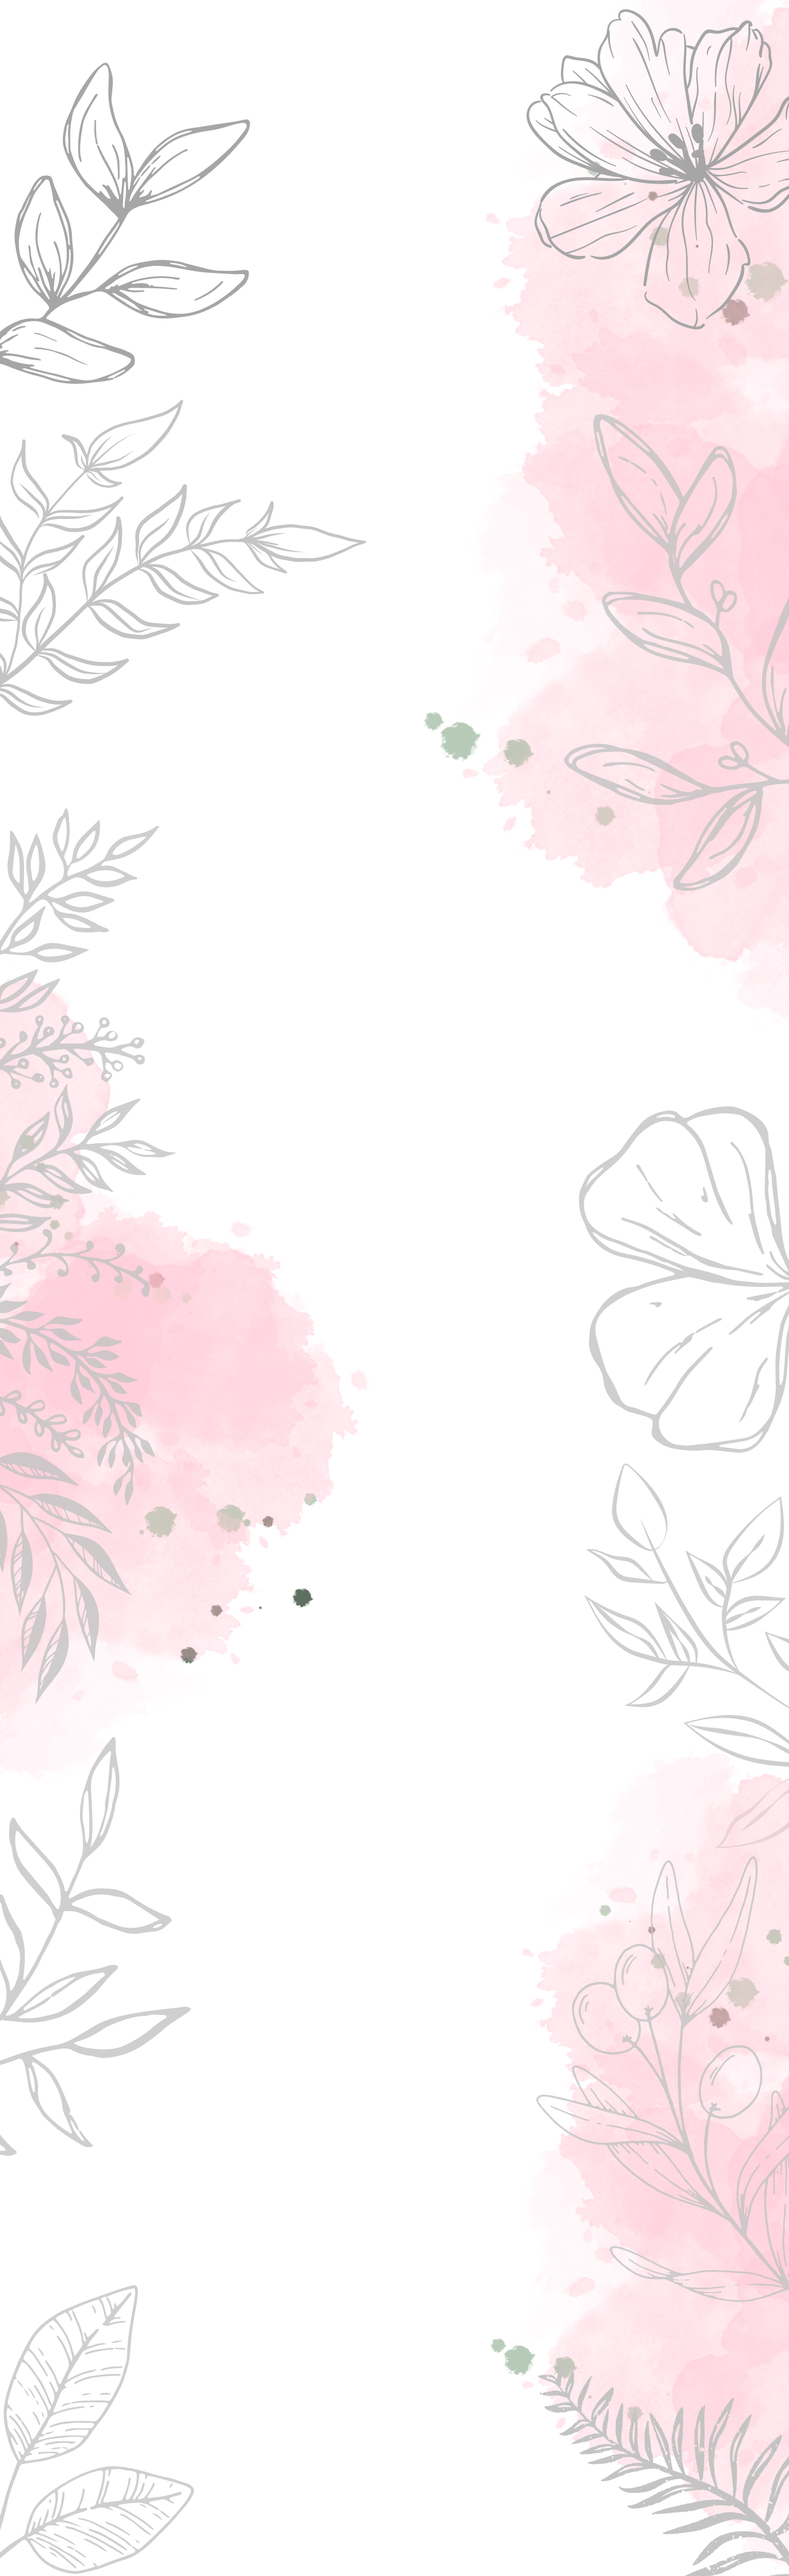
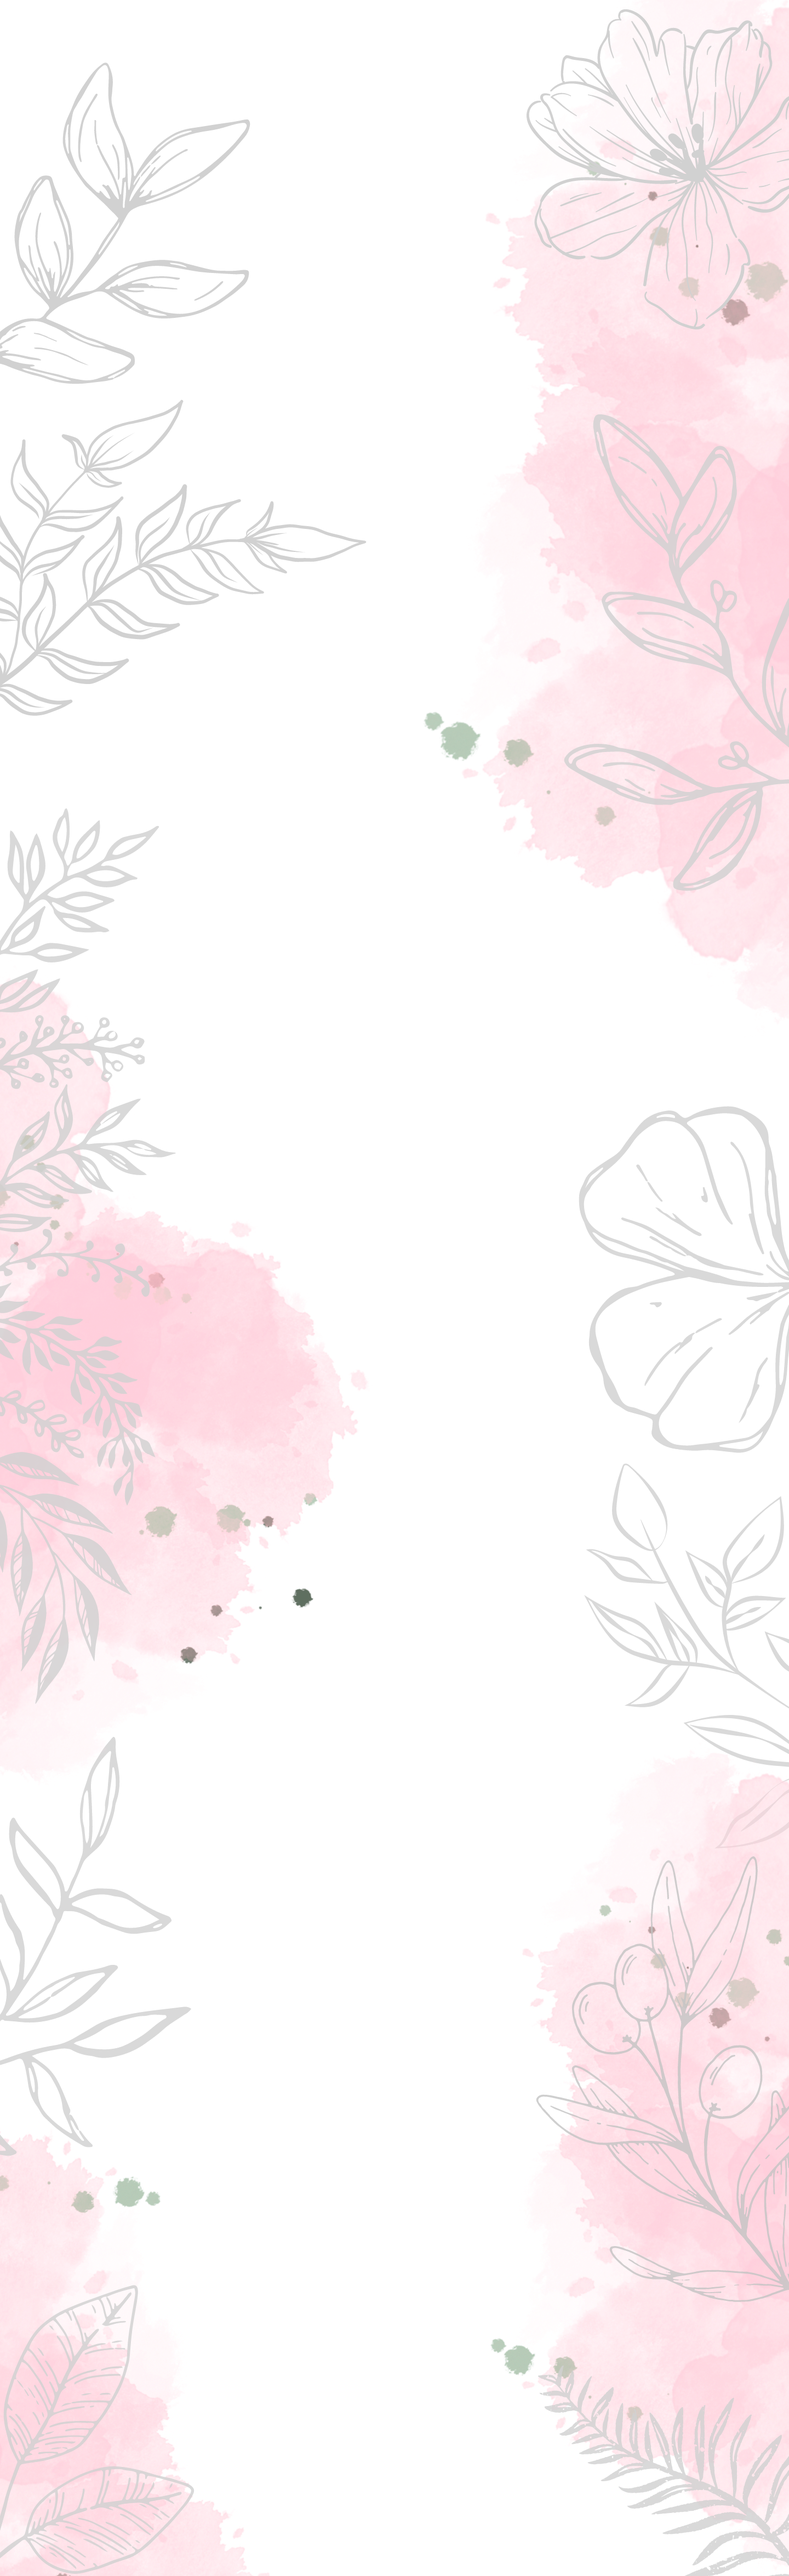
.

diff --git a/src/components/landing/banner_prin_gre_sto.tsx b/src/components/landing/banner_prin_gre_sto.tsx
@@ -1,24 +1,57 @@
 import { Link } from "react-router-dom";
 
 
-
-
+// const images = [
+//   "https://grema-store-frontend.vercel.app/images/backs9.jpg",
+//   "https://grema-store-frontend.vercel.app/images/backs10.jpg",
+//   "https://grema-store-frontend.vercel.app/images/backs11.jpg",
+//   "https://grema-store-frontend.vercel.app/images/backs12.jpg",
+//   "https://grema-store-frontend.vercel.app/images/backs13.jpg",
+//   "https://grema-store-frontend.vercel.app/images/backs14.jpg",
+// ];
 
 export const BannerPrincipal = () => {
 
+
   return (
-    <div className="hero min-h-screen" id="/" style={{backgroundImage: 'url(https://grema-store-frontend.vercel.app/images/backs7.jpg)'}}>
-    <div className="hero-overlay bg-opacity-10"></div>
-    <div className="hero-content text-center text-neutral-content bg-white bg-opacity-30 rounded-2xl">
-      <div className="max-w-md">
-        <h1 className="mb-5 text-5xl font-bold text-font-nav sm:text-7xl"style={{fontFamily:'Dancing Script,cursive', color:"#393939"}}>Bienvenidos a Grema Store</h1>
-        <p className="mb-5 text-2xl text-font-nav sm:text-xl" style={{color:"#393939"}}>Haz que tus recuerdos duren para siempre con nuestra bisuteria elegante y hermosa.</p>
-        <Link to={"/store"}>
-          <button className="btn bg-nav border-nav">Ir a la tienda</button>
-        </Link>
-        
-      </div>
-    </div>
-  </div>
+    <>
+     
+        <div
+          className={`hero min-h-screen transition-opacity duration-1000`}
+          id="/"
+          style={{
+            backgroundImage:
+              `url(https://grema-store-frontend.vercel.app/images/backs9.jpg)`,
+          }}
+        >
+          <div className="hero-overlay bg-opacity-10"></div>
+          <div className="hero-content text-center text-neutral-content bg-white bg-opacity-30 rounded-2xl">
+            <div className="max-w-md">
+              <h1
+                className="mb-5 text-5xl font-bold text-font-nav sm:text-7xl"
+                style={{
+                  fontFamily: "Dancing Script,cursive",
+                  color: "#393939",
+                }}
+              >
+                Bienvenidos a Grema Store
+              </h1>
+              <p
+                className="mb-5 text-2xl text-font-nav sm:text-xl"
+                style={{ color: "#393939" }}
+              >
+                Haz que tus recuerdos duren para siempre con nuestra bisuteria
+                elegante y hermosa.
+              </p>
+              <Link to={"/store"}>
+                <button className="btn bg-nav border-nav">
+                  Ir a la tienda
+                </button>
+              </Link>
+            </div>
+          </div>
+        </div>
+      
+    </>
   );
 };

diff --git a/src/components/landing/carrousel_gre_sto.tsx b/src/components/landing/carrousel_gre_sto.tsx
@@ -1,0 +1,37 @@
+import React, { useState } from "react";
+
+const images = [
+  "https://grema-store-frontend.vercel.app/images/backs9.jpg",
+  "https://grema-store-frontend.vercel.app/images/backs10.jpg",
+  "https://grema-store-frontend.vercel.app/images/backs11.jpg",
+  "https://grema-store-frontend.vercel.app/images/backs12.jpg",
+  "https://grema-store-frontend.vercel.app/images/backs13.jpg",
+  "https://grema-store-frontend.vercel.app/images/backs14.jpg",
+];
+
+export const Carousel = () => {
+    const [currentImage, setCurrentImage] = useState(0);
+  
+    const nextSlide = () => {
+      setCurrentImage((prevImage) =>
+        prevImage === images.length - 1 ? 0 : prevImage + 1
+      );
+    };
+  
+    setTimeout(nextSlide, 3000);
+  
+    return (
+      <div className="">
+        {images.map((image, index) => (
+          <img
+            key={index}
+            src={image}
+            alt={`Slide ${index + 1}`}
+            className={`absolute top-0 left-0 w-full h-auto ${
+              index === currentImage ? "opacity-100" : "opacity-0"
+            } transition-opacity duration-1000`}
+          />
+        ))}
+      </div>
+    );
+  };

diff --git a/src/pages/landing_page_gre_sto.tsx b/src/pages/landing_page_gre_sto.tsx
@@ -17,6 +17,7 @@ export const LandingPage = () => {
     <div className="" style={{backgroundImage: 'url(https://grema-store-frontend.vercel.app/images/backs6.png', backgroundSize:"cover"}}>
       <Navigation_Gre_Sto></Navigation_Gre_Sto>
       <BannerPrincipal></BannerPrincipal>
+      
       <InfoBanner></InfoBanner>
       <Promos></Promos>
       <InlineProducts></InlineProducts>

diff --git a/src/components/navigation/index_gre_sto.tsx b/src/components/navigation/index_gre_sto.tsx
@@ -10,7 +10,7 @@ export const Navigation_Gre_Sto = () => {
     <>
       <div
         className="navbar sticky-bar h-24 fixed top-0 "
-        style={{ backgroundColor: "rgba(246,218,239, 0.3)" }}
+        style={{ backgroundColor: "rgba(246,218,239, 0.45)" }}
       >
         <div className="navbar-start ">
           <div className="dropdown">
